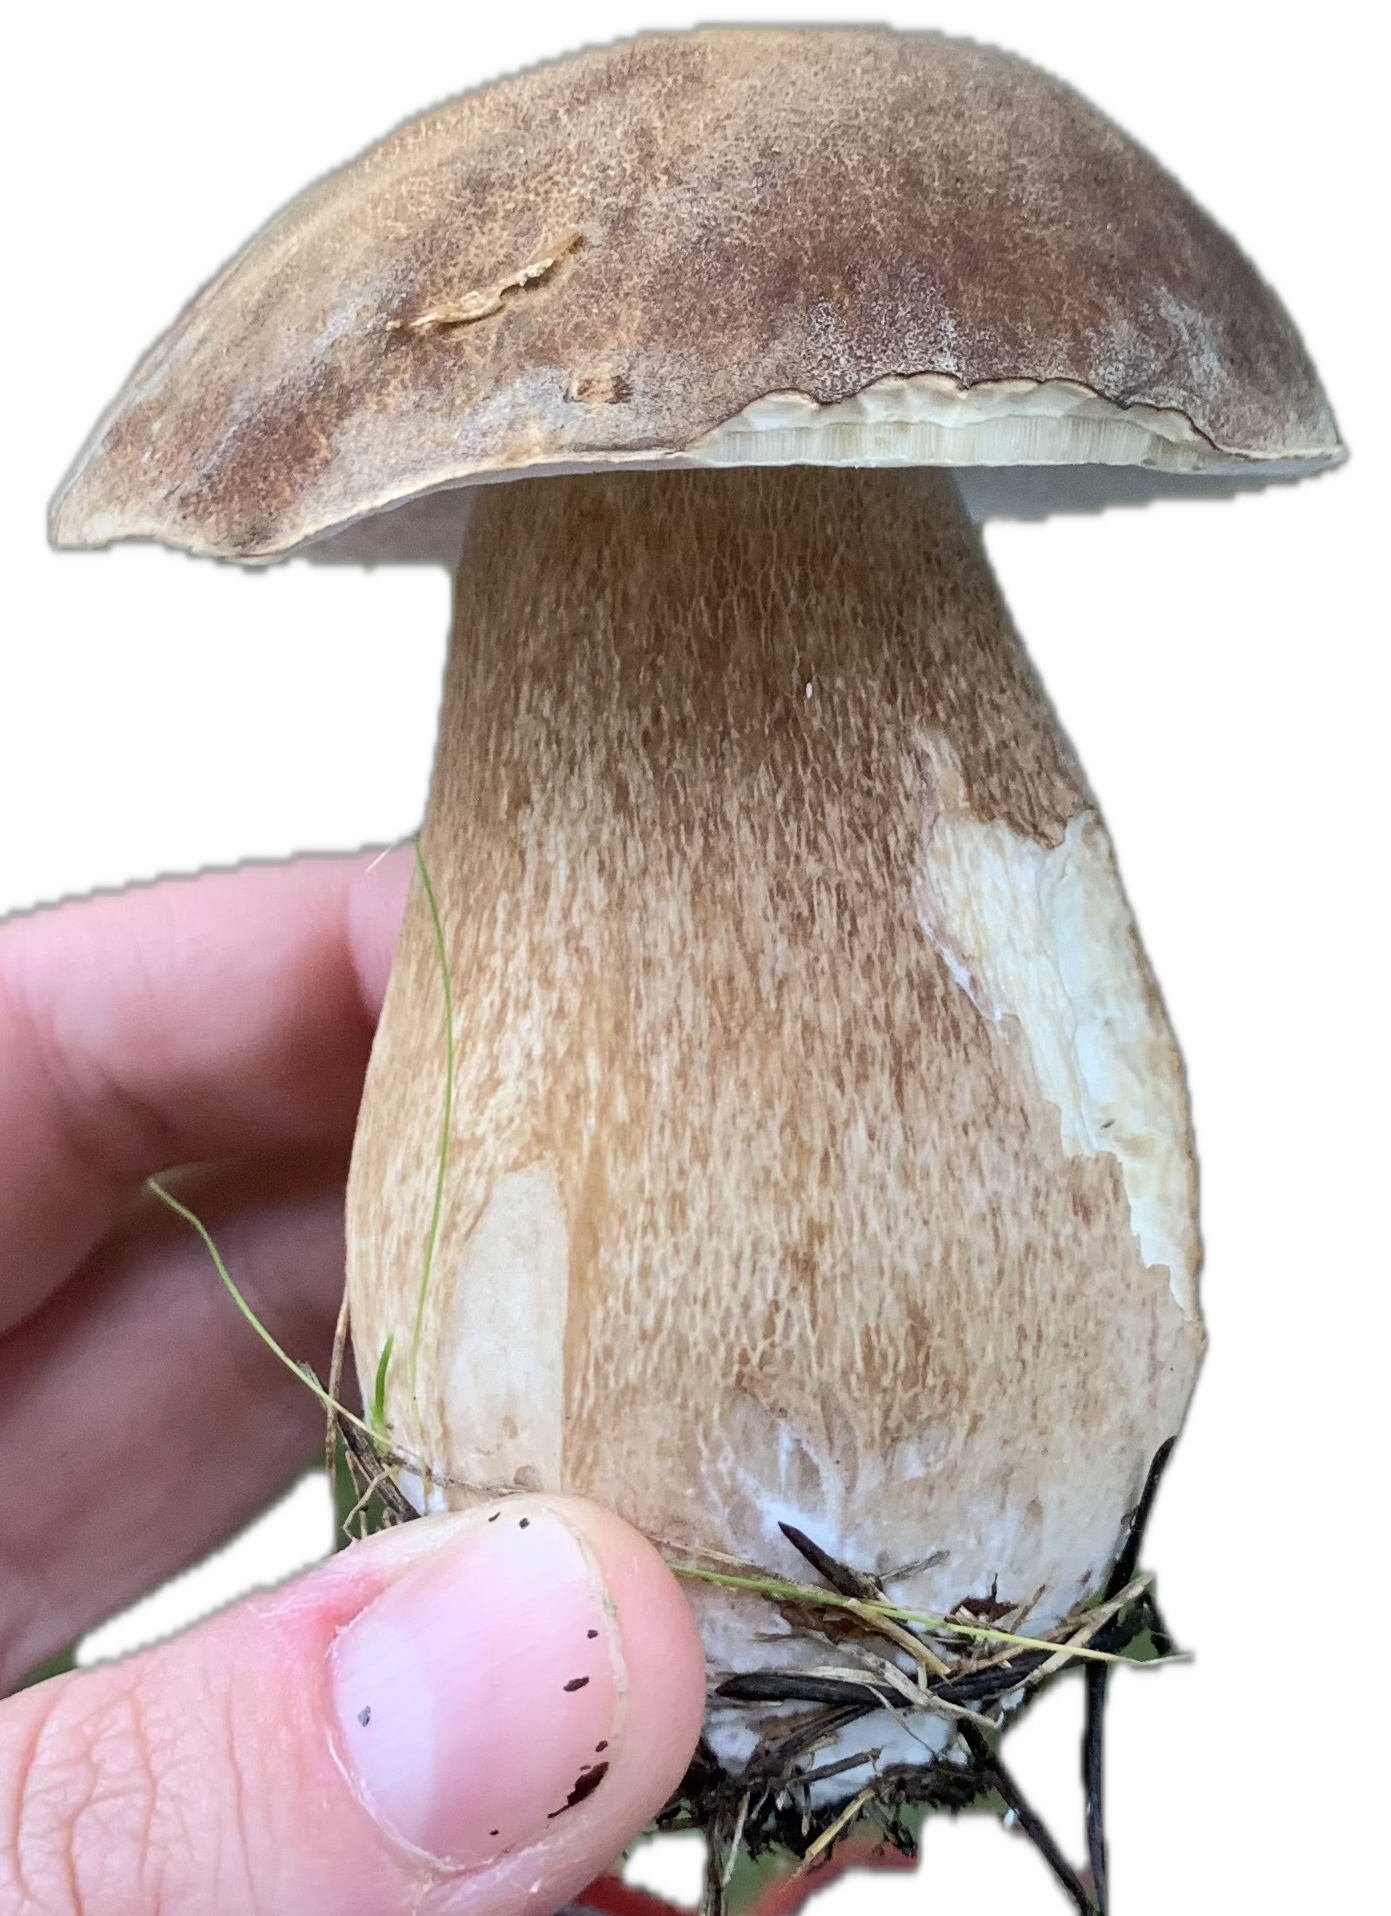
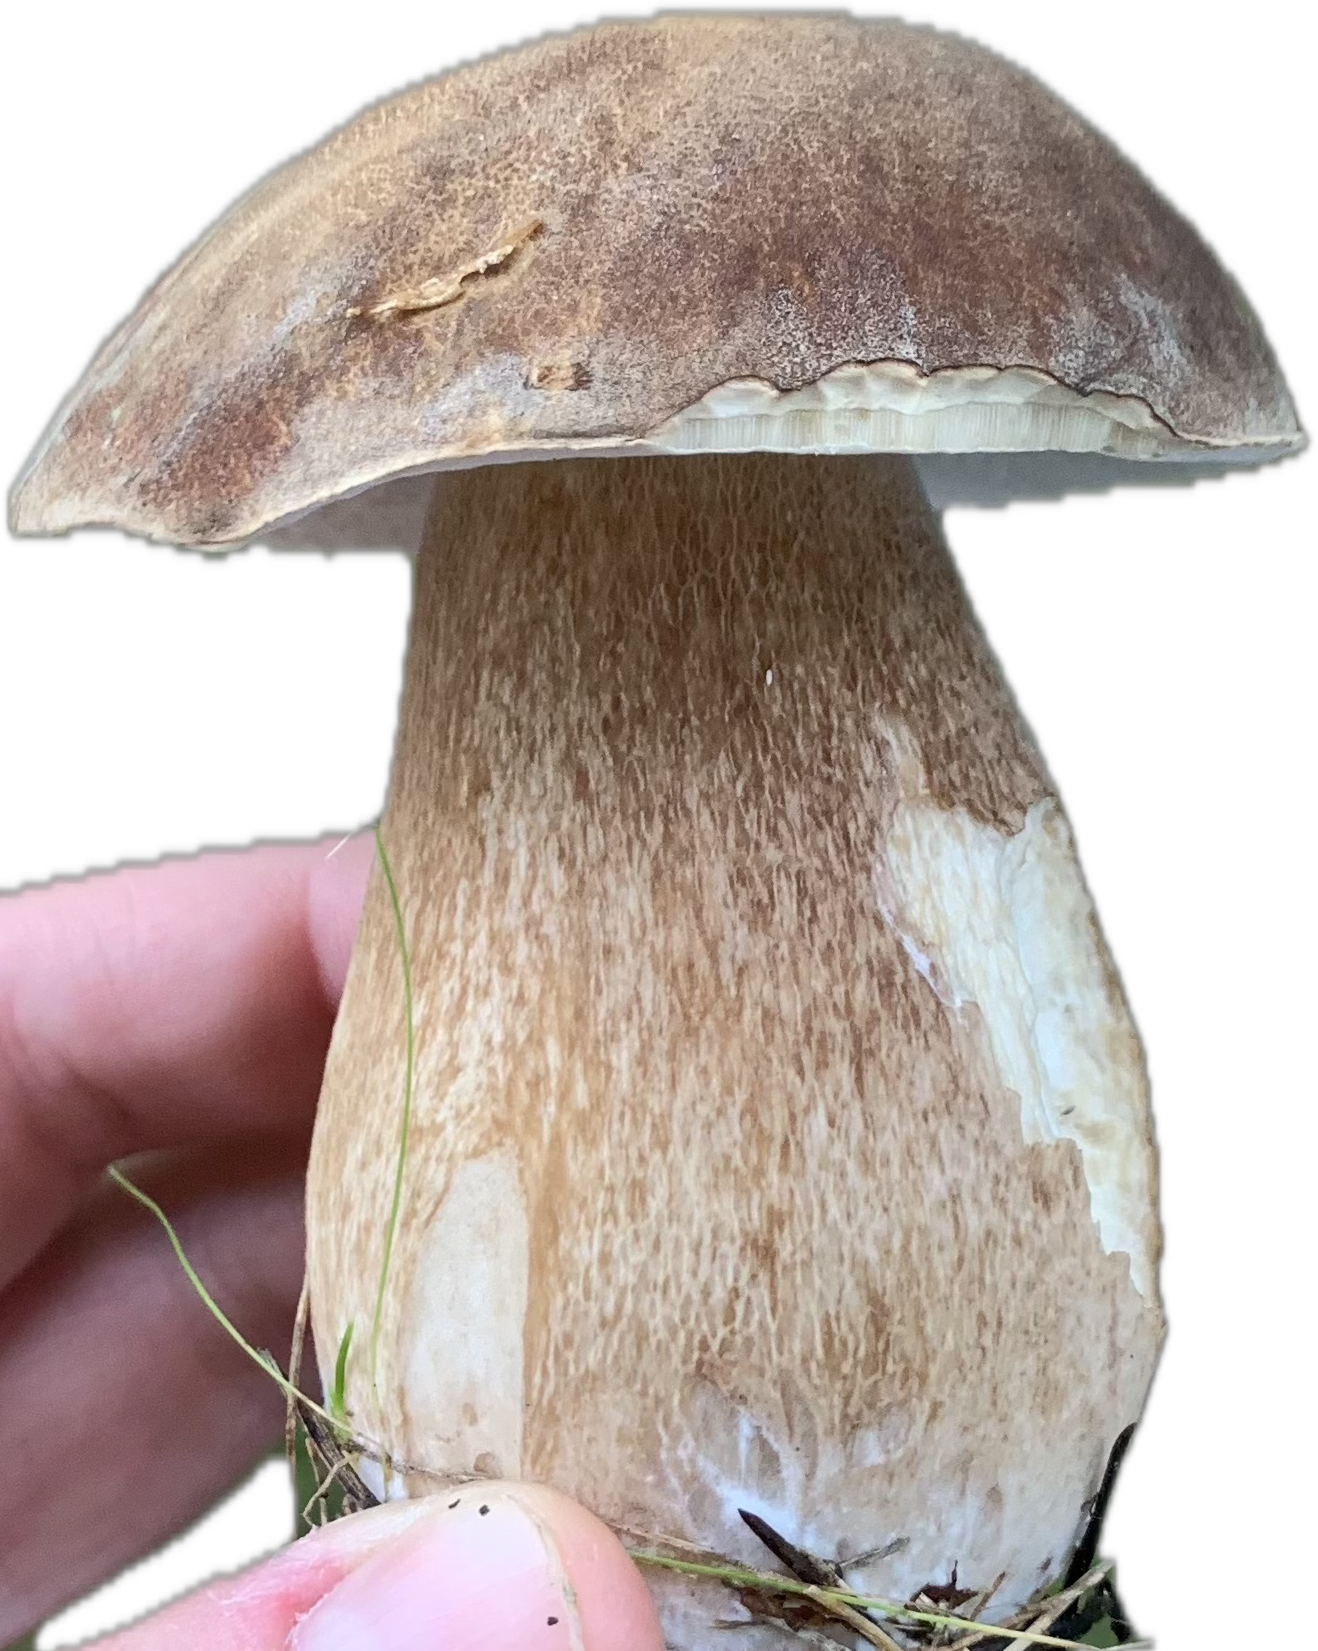
CSS for texts and images
made sure the text is readable
And the images are scalable

diff --git a/index.html b/index.html
@@ -14,14 +14,12 @@
         <div class="gallery">
             <!-- BOLETE -->
             <div class="card span_2columns">
-                <div>
-                    <img class="card__edible" src="/images/edible.png" alt="a drawing of a fork and a spoon that symbolises that the mushroom is edible">
-                    <img 
-                        class="card__image"
-                        src="/images/bolete.png" 
-                        alt="a photo of a king bolete mushroom"
-                    >
-                </div>
+                <img class="card__edible" src="/images/edible.png" alt="a drawing of a fork and a spoon that symbolises that the mushroom is edible">
+                <img 
+                    class="card__image"
+                    src="/images/bolete.png" 
+                    alt="a photo of a king bolete mushroom"
+                >
                 <h2 class="card__title">Penny bun</h2>
                 <h3 class="card__subtitle">How does it look like?</h3>
                 <p class="card__paragraph">Thick stem and porous undercap, brown color. Doesn't stain.</p>
@@ -32,42 +30,36 @@
             </div>
 
             <!-- CHANTAREL -->
-            <div class="card span_2rows image_margin_bottom_increased padding_increased">
-                <div>
-                    <img class="card__edible" src="/images/edible.png" alt="a drawing of a fork and a spoon that symbolises that the mushroom is edible">
-                    <img 
-                        class="card__image"
-                        src="images/chantarel.png" 
-                        alt="a photo of an orange, black and brown chantarel mushroom"
-                    >
-                </div>
+            <div class="card span_2rows">
+                <img class="card__edible" src="/images/edible.png" alt="a drawing of a fork and a spoon that symbolises that the mushroom is edible">
+                <img 
+                    class="card__image"
+                    src="images/chantarel.png" 
+                    alt="a photo of an orange, black and brown chantarel mushroom"
+                >
                 <h2 class="card__title">Chanterelle</h2>
                 <h3 class="card__subtitle">How does it look like?</h3>
-                <p class="card__paragraph">Chanterelle is the common name of several species of agaricomycetous fungi in the genera Cantharellus, Craterellus, Gomphus and Polyozellus.<br><br>These fungi are orange, yellow or white, meaty and funnel-shaped. On the lower surface, most species have rounded, forked folds that run almost all the way down the stipe, which tapers down from the cap.</p>
+                <p class="card__paragraph">Chanterelle is the common name of several species of agaricomycetous fungi in the genera Cantharellus, Craterellus, Gomphus and Polyozellus.<br><br>These fungi are orange, yellow or white, meaty and funnel-shaped. </p>
                 <h3 class="card__subtitle">What does it smell like?</h3>
                 <p class="card__paragraph">Many species emit a fruity aroma. The smell of autumn and leaves.</p>
                 <h3 class="card__subtitle">What does it taste like?</h3>
                 <p class="card__paragraph">Often they have a mild peppery taste</p>
                 <h3 class="card__subtitle">Where does it grow?</h3>
                 <p class="card__paragraph">Grows in forests of Sweden near oak, likes moss and open areas too.</p>
-                <h3 class="card__subtitle">What can I cook with it?</h3>
-                <p class="card__paragraph">Great question! What about a pizza, risotto, a soup, pasta, creamy sauce?</p>
                 <h3 class="card__subtitle">Any precaution I need to take?</h3>
-                <p class="card__paragraph">Do not collect mushrooms next to the highways and roads. Do not go to pick mushrooms alone in the forest you do not know without any form of a map or gps, you can get lost and die.<br><br>Chantarelle is the most well-known mushroom is Sweden that has no deadly look-alikes, so it is safe to start with. Still <em> please consult a person who knows about mushrooms before ingesting anything.</em> There are also lots of Facebook groups where you can get help to identify a mushroom.<br><br></p>
+                <p class="card__paragraph">Do not collect mushrooms next to the highways and roads. Do not go to pick mushrooms alone in the forest you do not know without any form of a map or gps, you can get lost and die.</p>
             </div>
             <!--  -->
 
 
             <!-- Amanita mascaria -->
             <div class="card">
-                <div>
-                    <img class="card__inedible" src="/images/skull.svg" alt="an image of a skull">
-                    <img 
-                        class="card__image"
-                        src="/images/amanita.png" 
-                        alt="a photo of a Fly agaric mushroom with a bright red cap"
-                    >
-                </div>
+                <img class="card__inedible" src="/images/skull.svg" alt="an image of a skull">
+                <img 
+                    class="card__image"
+                    src="/images/amanita.png" 
+                    alt="a photo of a Fly agaric mushroom with a bright red cap"
+                >
                 <h2 class="card__title">Fly agaric</h2>
                 <h3 class="card__subtitle">How does it look like?</h3>
                 <p class="card__paragraph">Bright red cap with white spots. The fruiting body can get super big.</p>
@@ -80,14 +72,12 @@
 
             <!-- AMETHYST -->
             <div class="card">
-                <div>
-                    <img class="card__edible" src="/images/edible.png" alt="a drawing of a fork and a spoon that symbolises that the mushroom is edible">
-                    <img 
-                        class="card__image"
-                        src="images/amethyst.png" 
-                        alt="a photo of an amethyst deceiver mushroom, bright purple."
-                    >
-                </div>
+                <img class="card__edible" src="/images/edible.png" alt="a drawing of a fork and a spoon that symbolises that the mushroom is edible">
+                <img 
+                    class="card__image"
+                    src="images/amethyst.png" 
+                    alt="a photo of an amethyst deceiver mushroom, bright purple."
+                >
                 <h2 class="card__title">Amethyst deceiver</h2>
                 <h3 class="card__subtitle">How does it look like?</h3>
                 <p class="card__paragraph">It is small and purple, quite bright. Fades with age and weathering. Edible, but not the best taste.</p>
@@ -100,14 +90,12 @@
 
             <!-- Panterina -->
             <div class="card">
-                <div>
-                    <img class="card__inedible" src="/images/skull.svg" alt="an image of a skull">
-                    <img 
-                        class="card__image"
-                        src="/images/panterina.png" 
-                        alt="a photo of two mushrooms with a brown cap with white dots on it, called amanita panterina."
-                    >
-                </div>
+                <img class="card__inedible" src="/images/skull.svg" alt="an image of a skull">
+                <img 
+                    class="card__image"
+                    src="/images/panterina.png" 
+                    alt="a photo of two mushrooms with a brown cap with white dots on it, called amanita panterina."
+                >
                 <h2 class="card__title">Panther cap</h2>
                 <h3 class="card__subtitle">How does it look like?</h3>
                 <p class="card__paragraph">Brown cap with white dots on it. White stem with a ring becomes thicker at the bottom. Grows from an 'egg'.</p>
@@ -120,14 +108,12 @@
 
             <!-- parasol mushroom -->
             <div class="card span_2columns">
-                <div>
-                    <img class="card__edible" src="/images/edible.png" alt="a drawing of a fork and a spoon that symbolises that the mushroom is edible">
-                    <img 
-                        class="card__image"
-                        src="images/parasol.png" 
-                        alt="a photo of two brown mushrooms with brown dots, they are valled parasol mushroom"
-                    >
-                </div>
+                <img class="card__edible" src="/images/edible.png" alt="a drawing of a fork and a spoon that symbolises that the mushroom is edible">
+                <img 
+                    class="card__image"
+                    src="images/parasol.png" 
+                    alt="a photo of two brown mushrooms with brown dots, they are valled parasol mushroom"
+                >
                 <h2 class="card__title">Parasol mushroom</h2>
                 <h3 class="card__subtitle">How does it look like?</h3>
                 <p class="card__paragraph">Cream cap with brown dots, a long brown stem with a ring that slides. The fruiting body can get super big, bigger than a palm of a hand.</p>

diff --git a/styles.css b/styles.css
@@ -2,8 +2,41 @@ html, body {
     margin: 0;
     padding: 0;
     font-family: "Chewy", 'Lucida Sans', 'Lucida Sans Regular', 'Lucida Grande', 'Lucida Sans Unicode', Geneva, Verdana, sans-serif;
-    font-size: clamp(15px, 6vw, 40px)
+    font-size: clamp(20px, 6vw, 50px)
 }
+
+/* for mobile */
+@media (min-width: 200px) and (max-width: 400px) {
+    .gallery {
+    display: grid;
+    grid-template-columns: repeat(1, 1  fr);
+    grid-template-rows: repeat(6, 0.7fr);
+    gap: 4vw;
+    padding: 5vw;
+    }
+
+}
+/* for tablet and desktop */
+@media (min-width: 401px) {
+    .gallery {
+        display: grid;
+        grid-template-columns: repeat(3, 1fr);
+        grid-template-rows: repeat(3, 0.4fr);
+        gap: 1vw;
+        justify-content: space-between;
+        padding: 2vw;
+    }
+    /* grid items can span 2 columns only on desktop */
+    .span_2columns {
+    grid-column: span 2;
+    }
+
+    /* grid items can span 2 rows only on desktop */
+    .span_2rows {
+        grid-row: span 2 / span 2;
+    }
+}
+
 .chewy-regular {
   font-family: "Chewy", system-ui;
   font-weight: 400;
@@ -13,51 +46,44 @@ html, body {
 #page_title {
     color: #efe2ce;
     background-color: #b58757;
-    margin: 5px auto;
+    margin: 1vw auto;
     padding: 5px 5px;
     border-radius: 10px;
     width: fit-content;
     font-size: 1em;
 }
 
-.gallery {
-    display: grid;
-    grid-template-columns: 0.8fr 0.8fr 0.8fr;
-    grid-template-rows: 0.8fr 0.8fr 0.8fr;
-    gap: 0.5vw;
-    justify-content: space-between;
-}
 
 /* card with the mushroom info */
 .card {
     display: flex;
     flex-direction: column;
-    /* height: 40vw; */
-    padding: 1vw 0.7vw;
+    padding: 5vw 4vw;
     background-color: #efe2ce;
     border-radius: 10px;
-    justify-content: center;
+    justify-content: flex-start;
     align-items: center;
     text-align: center;
+    /* margin: 0 2vw; */
 }
 
 .card:hover {
-    border: 3.5px solid #b58757;
+    box-shadow: 2px 2px 15px #b49e86;
     border-radius: 10px;
 }
 
 /* photo of the mushroom */
 .card__image {
-    height: clamp(2vw, 20vw, 150px);
-    width: clamp(1vw, 15vw, 150px);
+    height: clamp(200px, 25vw, 1000px);
+    width: clamp(180px, 22vw, 980px);
 }
 
 /* this is the small skull or fork image at the top left of the card */
 .card__edible, .card__inedible {
-    display: block;
+    display: none;
     position: relative; 
-    top: 0px;
-    right: 3vw;
+    top: 0.5vw;
+    left: 0.5vw;
     height: 4vw;
     width: 4vw;
     margin: 0;
@@ -97,21 +123,11 @@ footer {
 .footer__img {
     width: clamp(10px, 2vw, 25px);
 }
-
+/* 
 .span_2columns {
     grid-column: span 2;
 }
 
 .span_2rows {
     grid-row: span 2 / span 2;
-}
-
-.image_margin_bottom_increased {
-    .card__image {
-    margin-bottom: 50px;
-}
-}
-
-.padding_increased {
-    padding: 28px;
-}
+} */
